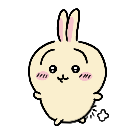
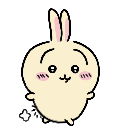
run back and forth

diff --git a/main.py b/main.py
@@ -13,10 +13,12 @@ class DesktopPet(QWidget):
         super(DesktopPet, self).__init__(parent)
         self.action_images = None
         self.up_down = False
-        self.is_running_action = False
+        self.is_running = False
         self.is_follow_mouse = False
         self.index = 0
         self.action_distribution=[...]
+        self.directionX = 8 # Adjust for speed and direction
+        self.directionY = 5  # Adjust for speed and direction
         self.setWindowFlags(Qt.FramelessWindowHint | Qt.WindowStaysOnTopHint | Qt.SubWindow)
         self.setAutoFillBackground(False)
         self.setAttribute(Qt.WA_TranslucentBackground, True)
@@ -27,11 +29,30 @@ class DesktopPet(QWidget):
         self.pet_images, iconpath = self.loadPetImages()
         self.image = QLabel(self)
         self.image.setPixmap(self.pet_images[0][0])
+        self.running_l_images = self.loadRunning_l_Images()
+        self.running_r_images = self.loadRunning_r_Images()
+        self.current_frame =0
         self.move_timer = QTimer()
+
         # self.commonAction()
         self.show()
 
-
+    def rightMenu(self,pos):
+        self.move_timer.stop()
+        self.myMenu = QMenu(self)
+        self.actionA = QAction(QIcon("来回跑"), "来回跑", self)
+        self.actionA.triggered.connect(self.moveleftRight)
+        self.actionB = QAction(QIcon("停止"), "停止", self)
+        self.actionB.triggered.connect(self.moveStop)
+        self.actionC = QAction(QIcon("睡觉"), "睡觉", self)
+        self.actionC.triggered.connect(self.moveSleep)
+        self.actionD = QAction(QIcon("退出"), "退出", self)
+        self.actionD.triggered.connect(self.quit)
+        self.myMenu.addAction(self.actionA)
+        self.myMenu.addAction(self.actionB)
+        self.myMenu.addAction(self.actionC)
+        self.myMenu.addAction(self.actionD)
+        self.myMenu.popup(QCursor.pos())
     def loadImage(self, imagepath):
         image = QPixmap()
         image.load(imagepath)
@@ -46,6 +67,22 @@ class DesktopPet(QWidget):
         iconpath = os.path.join("4", 'shime1.png')
         return pet_images, iconpath
 
+    def loadRunning_l_Images(self):
+        runing=[]
+        for i in range(1, 3):  # Assuming N frames in the animation
+            runing.append(self.pet_images[i][0])
+        return runing
+    def loadRunning_r_Images(self):
+        runing=[]
+        for i in range(33, 35):  # Assuming N frames in the animation
+            runing.append(self.pet_images[i][0])
+        return runing
+
+    def commonAction(self):
+        # 每隔一段时间做个动作
+        self.timer_common = QTimer()
+        self.timer_common.timeout.connect(self.randomAct)
+        self.timer_common.start(1000)
     def randomAct(self):
         self.pet_images, iconpath = self.loadPetImages()
         if not self.is_running_action:
@@ -63,11 +100,7 @@ class DesktopPet(QWidget):
         self.image.setPixmap(self.action_images[self.action_pointer])
         self.action_pointer += 1
 
-    def commonAction(self):
-        # 每隔一段时间做个动作
-        self.timer_common = QTimer()
-        self.timer_common.timeout.connect(self.randomAct)
-        self.timer_common.start(1000)
+
 
     def selfMoveAction(self):
         try:
@@ -86,21 +119,7 @@ class DesktopPet(QWidget):
         except Exception as e:
             print(e)
 
-    def rightMenu(self,pos):
-        self.myMenu = QMenu(self)
-        self.actionA = QAction(QIcon("移动"), "移动", self)
-        self.actionA.triggered.connect(self.moveUpDown)
-        self.actionB = QAction(QIcon("停止"), "停止", self)
-        self.actionB.triggered.connect(self.moveStop)
-        self.actionC = QAction(QIcon("睡觉"), "睡觉", self)
-        self.actionC.triggered.connect(self.moveSleep)
-        self.actionD = QAction(QIcon("退出"), "退出", self)
-        self.actionD.triggered.connect(self.quit)
-        self.myMenu.addAction(self.actionA)
-        self.myMenu.addAction(self.actionB)
-        self.myMenu.addAction(self.actionC)
-        self.myMenu.addAction(self.actionD)
-        self.myMenu.popup(QCursor.pos())
+
 
     def mousePressEvent(self, event):
         if event.button() == Qt.LeftButton:
@@ -124,21 +143,54 @@ class DesktopPet(QWidget):
         self.setCursor(QCursor(Qt.ArrowCursor))
 
 
-    def moveUpDown(self):
+    def moveleftRight(self):
+        self.move_timer.timeout.connect(self.updateLeft_Right_Position)
         self.move_timer.start(100)
-        self.up_down = True
-        self.timer_common.start(500)
-        self.timer_sleep.stop()
 
+    def updateAnimationFrame(self):
+        if not self.is_running:
+            return
 
-    def upAndDown(self):
-        print("up ")
-        if self.up_down:
-            self.stop_threads = False
-            t = threading.Thread(target=self.do, args={})
-            t.start()
+        if self.directionX>0:
+            self.current_frame = (self.current_frame + 1) % len(self.running_r_images)
+            self.image.setPixmap(self.running_r_images[self.current_frame])
         else:
-            self.stop_threads = True
+            self.current_frame = (self.current_frame + 1) % len(self.running_l_images)
+            self.image.setPixmap(self.running_l_images[self.current_frame])
+    def updateLeft_Right_Position(self):
+        self.is_running= True
+        screenWidth = QApplication.desktop().width()
+
+        newX = self.x() + self.directionX
+        newY = self.y()
+        # Reverse direction if the pet hits the screen edge
+        if newX < 0 or newX + self.width() > screenWidth:
+            self.directionX = -self.directionX
+            newX += 2 * self.directionX
+        self.move(newX, newY)
+        self.updateAnimationFrame()
+
+    def updatePosition(self):
+        self.is_running= True
+        screenWidth = QApplication.desktop().width()
+        screenHeight = QApplication.desktop().height()
+
+        newX = self.x() + self.directionX
+        newY = self.y() + self.directionY
+
+        # Reverse direction if the pet hits the screen edge
+        if newX < 0 or newX + self.width() > screenWidth:
+            self.directionX = -self.directionX
+            newX += 2 * self.directionX
+
+        if newY < 0 or newY + self.height() > screenHeight:
+            self.directionY = -self.directionY
+            newY += 2 * self.directionY
+
+        self.move(newX, newY)
+        self.updateAnimationFrame()
+
+
 
     def moveStop(self):
         print("Stop")
